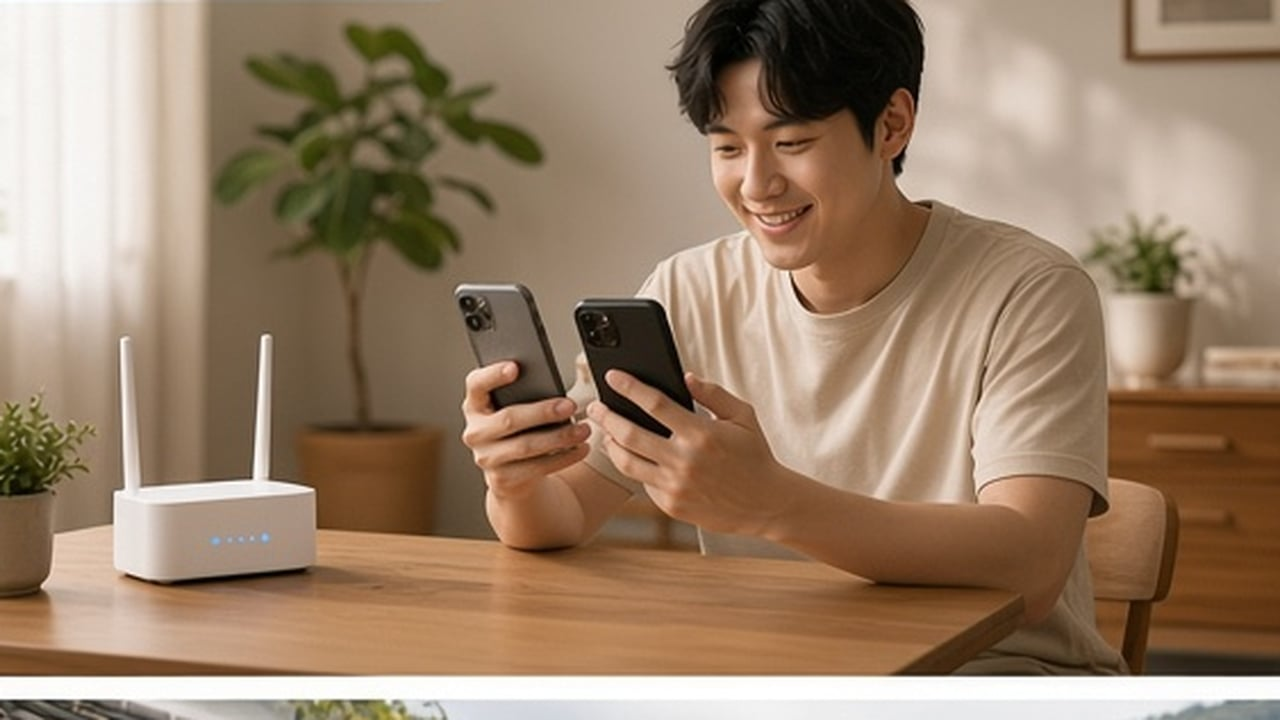
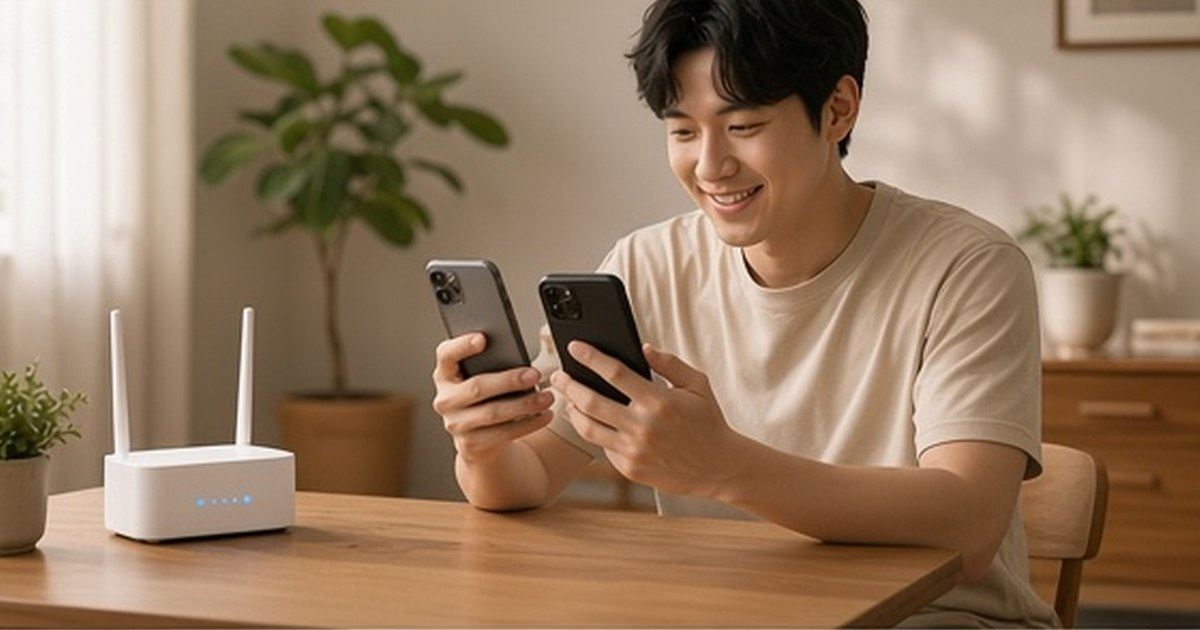
Swap category and guide topic photos and crop the card-strip seam.
Drop the supplied jpg/webp binaries in place, keep guide-choose untouched, and crop homepage/guide photo strips from the top so the inline-image baseline gap does not show as a white seam.

diff --git a/src/lib/guide-media.test.ts b/src/lib/guide-media.test.ts
@@ -53,8 +53,9 @@ describe("guide topic images", () => {
       assert.ok(image, slug);
       assert.equal(image.src, `/images/${TOPIC_FILE[slug]}.jpg`);
       assert.equal(image.webp, `/images/${TOPIC_FILE[slug]}.webp`);
-      assert.equal(image.width, 1280);
-      assert.equal(image.height, 720);
+      const [width, height] = slug === "fiber-vs-5g" ? [1280, 720] : [1200, 630];
+      assert.equal(image.width, width);
+      assert.equal(image.height, height);
       assert.equal(guideShareImagePath(slug), image.src);
       assert.ok(getGuide(slug), slug);
     }
@@ -69,11 +70,11 @@ describe("guide topic images", () => {
 
   it("ships compressed jpg + webp under public/images", () => {
     const assets = [
-      ["public/images/guide-port-in.jpg", 90_000],
+      ["public/images/guide-port-in.jpg", 95_000],
       ["public/images/guide-port-in.webp", 70_000],
-      ["public/images/guide-fiber.jpg", 110_000],
+      ["public/images/guide-fiber.jpg", 125_000],
       ["public/images/guide-fiber.webp", 70_000],
-      ["public/images/guide-village.jpg", 140_000],
+      ["public/images/guide-village.jpg", 155_000],
       ["public/images/guide-village.webp", 100_000],
       ["public/images/guide-choose.jpg", 100_000],
       ["public/images/guide-choose.webp", 70_000],
@@ -116,9 +117,12 @@ describe("guide topic images", () => {
     assert.match(page, /guideTopicImage\(guide\.slug\)/);
     assert.match(page, /property:\s*"og:image"/);
     assert.match(page, /name:\s*"twitter:image"/);
-    assert.match(page, /<picture>/);
+    assert.match(page, /photo-strip mt-6/);
     assert.match(page, /type="image\/webp"/);
     assert.match(page, /loading="lazy"/);
+    const css = src("../styles.css");
+    assert.match(css, /\.photo-strip img\s*\{[^}]*object-position:\s*top/);
+    assert.match(src("../routes/guides.tsx"), /photo-strip photo-strip-tile/);
     assert.doesNotMatch(page, /guide-home5g|guide-mobile|guide-business/);
   });
 

diff --git a/src/lib/home-perf.test.ts b/src/lib/home-perf.test.ts
@@ -32,6 +32,12 @@ describe("homepage first-load images", () => {
     assert.match(home, /srcSet=\{item\.webp\}/);
     assert.match(home, /loading="lazy"/);
     assert.match(home, /webp: "\/images\/cat-broadband\.webp"/);
+    assert.match(home, /photo-strip photo-strip-card/);
+    assert.doesNotMatch(home, /aspect-\[16\/10\]/);
+    const css = src("../styles.css");
+    assert.match(css, /\.photo-strip\s*\{[^}]*display:\s*block/);
+    assert.match(css, /\.photo-strip img\s*\{[^}]*object-position:\s*top/);
+    assert.match(css, /\.photo-strip-card img\s*\{[^}]*aspect-ratio:\s*16\s*\/\s*11/);
     assert.match(src("../components/provider-mark.tsx"), /loading="lazy"/);
     assert.match(src("../components/provider-mark.tsx"), /hkbn\.webp/);
 
@@ -39,13 +45,13 @@ describe("homepage first-load images", () => {
       ["public/images/hero-home.jpg", 90_000],
       ["public/images/hero-home.webp", 70_000],
       ["public/images/hero-home-768.webp", 35_000],
-      ["public/images/cat-broadband.jpg", 110_000],
+      ["public/images/cat-broadband.jpg", 140_000],
       ["public/images/cat-broadband.webp", 70_000],
-      ["public/images/cat-home5g.jpg", 100_000],
+      ["public/images/cat-home5g.jpg", 130_000],
       ["public/images/cat-home5g.webp", 65_000],
-      ["public/images/cat-mobile.jpg", 110_000],
+      ["public/images/cat-mobile.jpg", 145_000],
       ["public/images/cat-mobile.webp", 75_000],
-      ["public/images/cat-business.jpg", 100_000],
+      ["public/images/cat-business.jpg", 130_000],
       ["public/images/cat-business.webp", 65_000],
     ] as const;
 

diff --git a/src/lib/guide-media.ts b/src/lib/guide-media.ts
@@ -19,8 +19,8 @@ export const GUIDE_TOPIC_IMAGES: Record<GuideTopicImageSlug, GuideTopicImage> = 
     slug: "port-in",
     src: "/images/guide-port-in.jpg",
     webp: "/images/guide-port-in.webp",
-    width: 1280,
-    height: 720,
+    width: 1200,
+    height: 630,
     alt: "暖色客廳：男士喺木枱前同時睇兩部手機，旁邊放住白色路由器",
     altEn: "Warm living-room scene: a man at a wooden table looking at two phones, with a white router beside him",
   },
@@ -28,8 +28,8 @@ export const GUIDE_TOPIC_IMAGES: Record<GuideTopicImageSlug, GuideTopicImage> = 
     slug: "fiber",
     src: "/images/guide-fiber.jpg",
     webp: "/images/guide-fiber.webp",
-    width: 1280,
-    height: 720,
+    width: 1200,
+    height: 630,
     alt: "暖色客廳：一對伴侶坐喺梳化上各自拿住手機，旁邊有白色路由器",
     altEn: "Warm living-room scene: a couple on a sofa each holding a phone, with a white router nearby",
   },
@@ -37,8 +37,8 @@ export const GUIDE_TOPIC_IMAGES: Record<GuideTopicImageSlug, GuideTopicImage> = 
     slug: "village",
     src: "/images/guide-village.jpg",
     webp: "/images/guide-village.webp",
-    width: 1280,
-    height: 720,
+    width: 1200,
+    height: 630,
     alt: "村屋小巷：女士企喺白牆黑瓦屋前面睇手機",
     altEn: "Village lane scene: a woman standing among tiled-roof houses looking at a phone",
   },

diff --git a/src/routes/guides.tsx b/src/routes/guides.tsx
@@ -73,7 +73,7 @@ function GuidesPage() {
               className="flex h-full flex-col overflow-hidden rounded-xl bg-card shadow-[var(--shadow-border)] transition-[box-shadow] duration-150 hover:shadow-[var(--shadow-border-hover)]"
             >
               <Link to="/guides/$slug" params={{ slug: cat.slug }} className="group flex min-h-11 flex-1 flex-col">
-                <picture>
+                <picture className="photo-strip photo-strip-tile">
                   <source srcSet={cat.image.replace(/\.jpg$/, ".webp")} type="image/webp" />
                   <img
                     src={cat.image}
@@ -82,7 +82,7 @@ function GuidesPage() {
                     height={600}
                     loading="lazy"
                     decoding="async"
-                    className="h-36 w-full object-cover outline outline-1 -outline-offset-1 outline-fg/10"
+                    className="outline outline-1 -outline-offset-1 outline-fg/10"
                   />
                 </picture>
                 <div className="flex flex-1 flex-col p-4">

diff --git a/src/routes/index.tsx b/src/routes/index.tsx
@@ -164,7 +164,7 @@ function Home() {
               className="flex h-full flex-col overflow-hidden rounded-lg border border-border bg-card shadow-[var(--shadow-home-tile)]"
             >
               <Link to={item.to} params={{ slug: item.slug }} className="group flex min-h-0 flex-1 flex-col">
-                <picture>
+                <picture className="photo-strip photo-strip-card">
                   <source srcSet={item.webp} type="image/webp" />
                   <img
                     src={item.src}
@@ -173,7 +173,7 @@ function Home() {
                     height={600}
                     loading="lazy"
                     decoding="async"
-                    className="aspect-[16/10] h-auto w-full object-cover outline outline-1 -outline-offset-1 outline-fg/10"
+                    className="outline outline-1 -outline-offset-1 outline-fg/10"
                   />
                 </picture>
                 <div className="flex flex-1 flex-col gap-1.5 p-3 pb-2 sm:p-3.5">

diff --git a/src/routes/guides_.$slug.tsx b/src/routes/guides_.$slug.tsx
@@ -171,7 +171,7 @@ function GuidePage() {
       <h1 className="mt-2 text-title font-semibold">{copy.h1}</h1>
       <p className="mt-3 text-base leading-relaxed text-muted">{copy.excerpt}</p>
       {topicImage ? (
-        <picture>
+        <picture className="photo-strip mt-6">
           <source srcSet={topicImage.webp} type="image/webp" />
           <img
             src={topicImage.src}
@@ -180,7 +180,7 @@ function GuidePage() {
             height={topicImage.height}
             loading="lazy"
             decoding="async"
-            className="mt-6 w-full rounded-xl object-cover outline outline-1 -outline-offset-1 outline-fg/10"
+            className="rounded-xl outline outline-1 -outline-offset-1 outline-fg/10"
           />
         </picture>
       ) : null}

diff --git a/src/styles.css b/src/styles.css
@@ -214,6 +214,25 @@
 }
 
 @layer components {
+  /* Card / topic photos: kill the inline <img> baseline seam; crop from the top. */
+  .photo-strip {
+    display: block;
+    line-height: 0;
+  }
+  .photo-strip img {
+    display: block;
+    width: 100%;
+    object-fit: cover;
+    object-position: top;
+  }
+  .photo-strip-card img {
+    aspect-ratio: 16 / 11;
+    height: auto;
+  }
+  .photo-strip-tile img {
+    height: 10.5rem;
+  }
+
   section.estate-dir-group {
     content-visibility: auto;
     contain-intrinsic-size: auto 320px;
